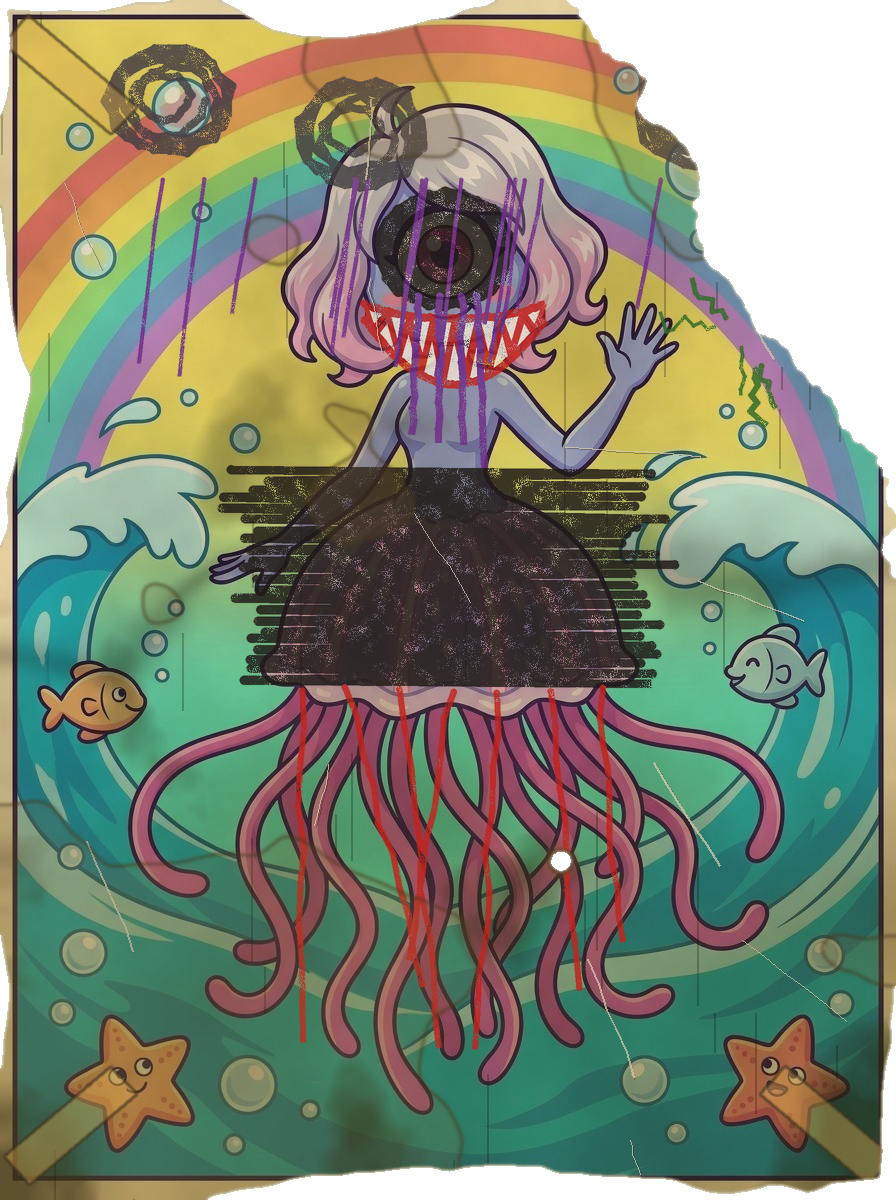
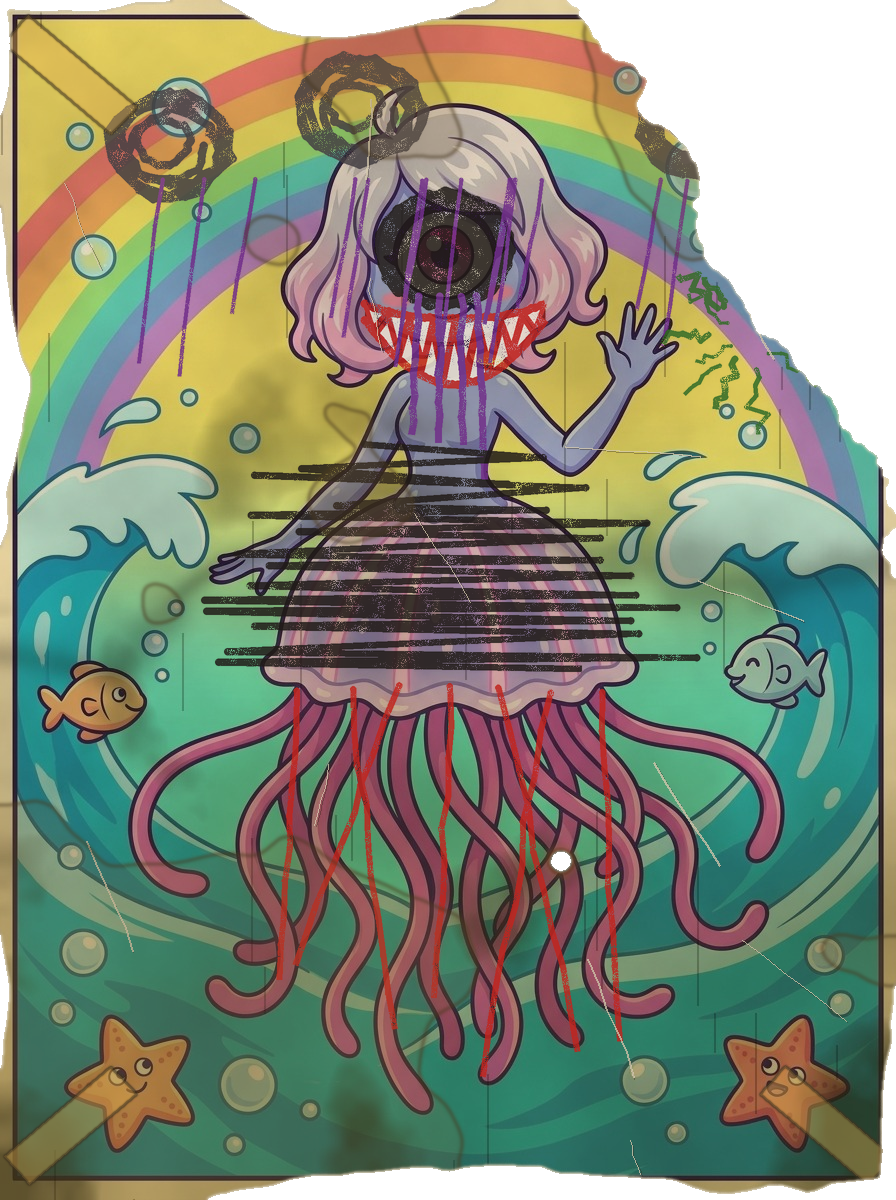
Pannello dell'infermeria: lo zig-zag sulla campana segue la cupola; scatti con le stesse luci e con la lampadina per i dettagli
Claude-Session: https://claude.ai/code/session_01QZhvJrSvMNdteHdHVGug5a

diff --git a/assets_src/ambienti_interni/poster/rovina.py b/assets_src/ambienti_interni/poster/rovina.py
@@ -544,11 +544,15 @@ def infermeria():
     for dx in (-26, -6, 16, 32):
         p.linea((ex + dx, ey + er), (ex + dx * 1.4 + p.rng.normal(0, 6), ey + er + 140 + p.rng.normal(0, 25)), 7, viola, n=12, trem=2)
     # la campana colorata di nero a zig-zag, i tentacoli ripassati in rosso come graffi
+    # (a zig-zag storto che segue la cupola, più stretto in alto e con i bordi irregolari: non un rettangolo)
     zig = []
-    for i in range(22):
-        y = 470 + i * 10
-        zig += [(255 + p.rng.normal(0, 12), y), (645 + p.rng.normal(0, 12), y + 5)]
-    p.tratto(zig, 9, nero, trem=3)
+    for i in range(14):
+        t = i / 13
+        y = 455 + i * 16 + p.rng.normal(0, 4)
+        mezza = 90 + 120 * math.sin(min(1.0, t * 1.4) * math.pi / 2) + p.rng.normal(0, 30)
+        cx = 450 + p.rng.normal(0, 15)
+        zig += [(cx - mezza, y), (cx + mezza * p.rng.uniform(0.7, 1.05), y + 8)]
+    p.tratto(zig, 7, nero, trem=4)
     for i in range(7):
         x = 300 + i * 50
         p.linea((x, 690), (x + p.rng.normal(0, 40), 1020 + p.rng.normal(0, 40)), 6, rosso, n=10, trem=4)
